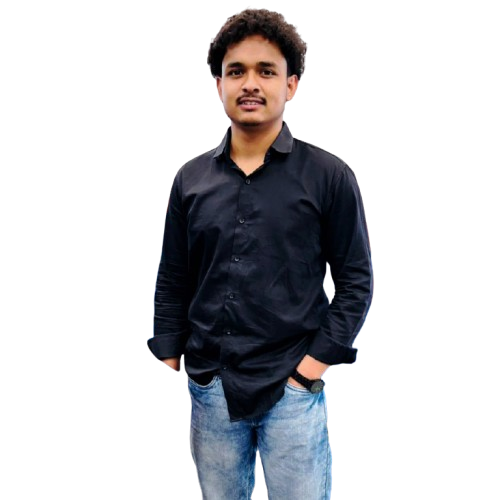
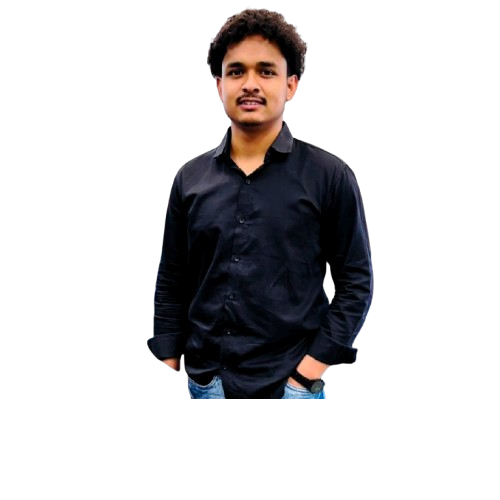
Refactor: Enhance Photo component with dynamic highlight tags and update image styling for improved visual appeal

Changed region(s): [[0.36, 0.78, 0.69, 1.0]]

diff --git a/components/Photo.jsx b/components/Photo.jsx
@@ -3,6 +3,34 @@
 import { motion, useReducedMotion } from "framer-motion";
 import Image from "next/image";
 
+const highlightTags = [
+  {
+    label: "Full Stack",
+    className:
+      "right-[6%] top-[14%] xl:right-[8%] xl:top-[16%]",
+  },
+  {
+    label: "Flask APIs",
+    className:
+      "left-[2%] top-[24%] xl:left-[4%] xl:top-[28%]",
+  },
+  {
+    label: "React UI",
+    className:
+      "right-[2%] bottom-[24%] xl:right-[4%] xl:bottom-[28%]",
+  },
+  {
+    label: "DSA Focused",
+    className:
+      "left-[8%] bottom-[12%] xl:left-[10%] xl:bottom-[16%]",
+  },
+  {
+    label: "Data Analyst",
+    className:
+      "right-[14%] top-[4%] xl:right-[16%] xl:top-[8%]",
+  },
+];
+
 const Photo = () => {
   const shouldReduceMotion = useReducedMotion();
 
@@ -57,7 +85,7 @@ const Photo = () => {
           <motion.div
             animate={shouldReduceMotion ? undefined : { y: [0, -7, 0] }}
             transition={{ duration: 5.8, repeat: Infinity, ease: "easeInOut" }}
-            className="relative h-full w-full scale-[1.05] xl:scale-[1.03]"
+            className="relative h-full w-full translate-y-[8px] scale-[0.96] xl:translate-y-[12px] xl:scale-[0.95]"
           >
             <Image
               src="/assets/new_img-removebg-preview.png"
@@ -65,7 +93,7 @@ const Photo = () => {
               priority
               quality={100}
               fill
-              className="object-contain object-[center_18%]"
+              className="object-contain object-bottom"
             />
           </motion.div>
         </motion.div>
@@ -106,14 +134,24 @@ const Photo = () => {
           />
         </motion.svg>
 
-        <motion.div
-          aria-hidden="true"
-          className="absolute right-[6%] top-[14%] z-30 rounded-full border border-white/12 bg-white/[0.05] px-3 py-1.5 text-[10px] uppercase tracking-[0.22em] text-white/65 backdrop-blur-md xl:right-[8%] xl:top-[16%]"
-          animate={shouldReduceMotion ? undefined : { y: [0, -8, 0] }}
-          transition={{ duration: 5.5, repeat: Infinity, ease: "easeInOut" }}
-        >
-          Full Stack
-        </motion.div>
+        {highlightTags.map((tag, index) => (
+          <motion.div
+            key={tag.label}
+            aria-hidden="true"
+            className={`absolute z-30 hidden rounded-full border border-white/12 bg-white/[0.05] px-3 py-1.5 text-[10px] uppercase tracking-[0.22em] text-white/70 backdrop-blur-md md:block ${tag.className}`}
+            animate={
+              shouldReduceMotion ? undefined : { y: [0, -6, 0] }
+            }
+            transition={{
+              duration: 4.8 + index * 0.6,
+              repeat: Infinity,
+              ease: "easeInOut",
+              delay: index * 0.2,
+            }}
+          >
+            {tag.label}
+          </motion.div>
+        ))}
       </motion.div>
     </div>
   );
